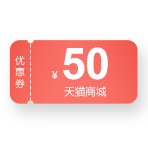
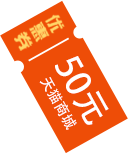
awardlist

diff --git a/front/pages/view/view.js b/front/pages/view/view.js
@@ -129,9 +129,9 @@ Page({
       fail: (res) => { }
     }
   },
-  handleOpen1() {
+  follow:function () {
     var that = this;
-    var canFollow = wx.getStorageSync('canFollow');
+    var canFollow = app.globalData.canFollow;
     if (canFollow){
       var sessionId = app.globalData.sessionId;
       wx.request({
@@ -147,10 +147,7 @@ Page({
           console.log(response);
           if (response.constructor === Object) {
             if (response.state == 1){
-              wx.setStorage({
-                key: 'canFollow',
-                data: true,
-              });
+              app.globalData.canFollow = true;
               that.setData({
                 visible1: true
               });
@@ -188,7 +185,7 @@ Page({
   },
   handleOpen1: function () {
     var that = this;
-    var canFollow = wx.getStorageSync('canFollow');
+    var canFollow = app.globalData.canFollow;
     if (canFollow) {
       if (app.globalData.userId === that.data.authorId) {
         wx.showModal({
@@ -229,15 +226,16 @@ Page({
   },
   getUserInfo: function (e) {
     var that = this;
-    if (app.globalData.userInfo) {
+    var userInfo = wx.getStorageSync('userInfo');
+    if (userInfo) {
       that.handleOpen1();
     } else {
       console.log(e.detail.userInfo)
       if (e.detail.userInfo) {
         //用户按了授权按钮
-        wx.setStorageSync('userInfo', e.detail.userInfo);
+        console.log('用户按了授权按钮');
         app.globalData.canUploadUserInfo = true;
-        that.saveUserInfo(e.detail.userInfo);
+        that.saveUserInfo(userInfo);
         that.handleOpen1();
       } else {
         //用户按了拒绝按钮
@@ -274,13 +272,13 @@ Page({
           var response = res.data;
           console.log(response);
           if (response.constructor === Object) {
-            if (response.state) {
-              console.log(response.msg);
-            } else {
-              console.log(response.msg)
-            }
+            console.log(response.msg)
           }
           app.globalData.canUploadUserInfo = false;
+          wx.setStorage({
+            key: 'userInfo',
+            data: userInfo,
+          });
         } catch (e) {
           console.log(e);
         }

diff --git a/front/pages/awardlist/awardlist.js b/front/pages/awardlist/awardlist.js
@@ -7,9 +7,11 @@ Page({
    */
   data: {
     awards: [
-      { "awardrecord_id": 1, "award_name": "奖品一", "award_image": "../../images/bugaboo.jpg", "award_time": "2019/01/12 12:00" },
-      { "awardrecord_id": 2, "award_name": "奖品二", "award_image": "../../images/bugaboo.jpg", "award_time": "2019/01/12 12:00" },
-      { "awardrecord_id": 3, "award_name": "奖品三", "award_image": "../../images/bugaboo.jpg", "award_time": "2019/01/12 12:00" }
+      { "awardrecord_id": 1, "award_name": "bugaboo限量笔记本", "award_image": "https://bugaboo.drivetogreen.com/static//images/bugaboo_bottle.png", "award_time": "2019/01/12 12:00" },
+      { "awardrecord_id": 2, "award_name": "bugaboo定制保温杯", "award_image": "https://bugaboo.drivetogreen.com/static//images/bugaboo_bag.png", "award_time": "2019/01/12 12:00" },
+      { "awardrecord_id": 3, "award_name": "bugaboo限量定制健身包", "award_image": "https://bugaboo.drivetogreen.com/static//images/bugaboo_notebook.png", "award_time": "2019/01/12 12:00" },
+      { "awardrecord_id": 3, "award_name": "50元天猫商城代金券", "award_image": "https://bugaboo.drivetogreen.com/static//images/coupon_50.png", "award_time": "2019/01/12 12:00" },
+      { "awardrecord_id": 3, "award_name": "100元天猫商城代金券", "award_image": "https://bugaboo.drivetogreen.com/static//images/coupon_100.png", "award_time": "2019/01/12 12:00" }
     ]
   },
 
